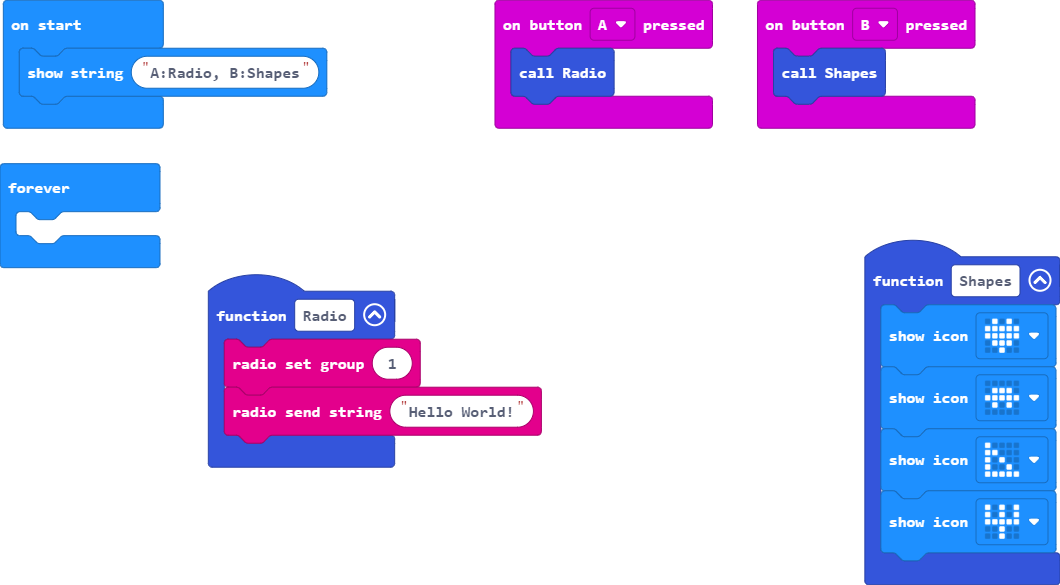
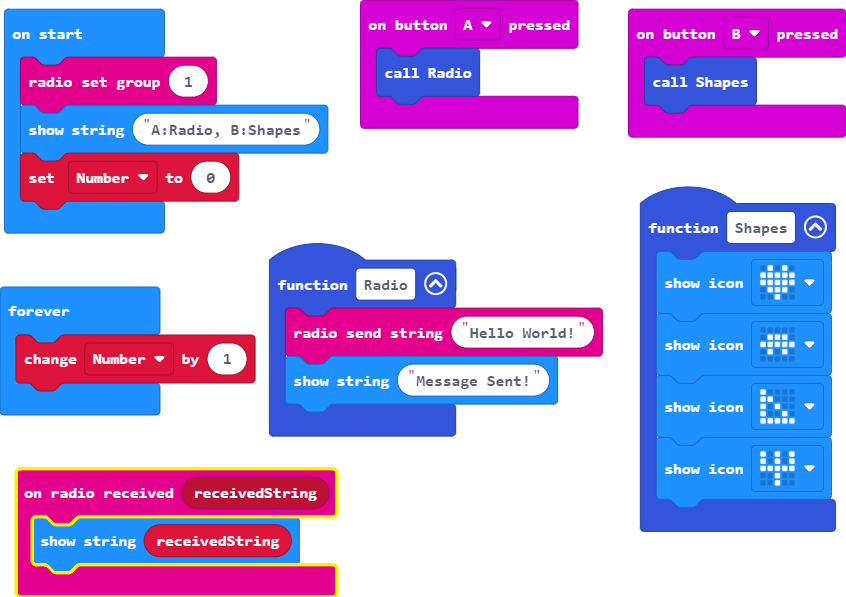
More microbit stuff

diff --git a/main.ts b/main.ts
@@ -7,14 +7,19 @@ function Shapes () {
     basic.showIcon(IconNames.LeftTriangle)
     basic.showIcon(IconNames.Pitchfork)
 }
+radio.onReceivedString(function (receivedString) {
+    basic.showString(receivedString)
+})
 input.onButtonPressed(Button.B, function () {
     Shapes()
 })
 function Radio () {
-    radio.setGroup(1)
     radio.sendString("Hello World!")
+    basic.showString("Message Sent!")
 }
+radio.setGroup(1)
 basic.showString("A:Radio, B:Shapes")
+let Number2 = 0
 basic.forever(function () {
-	
+    Number2 += 1
 })
